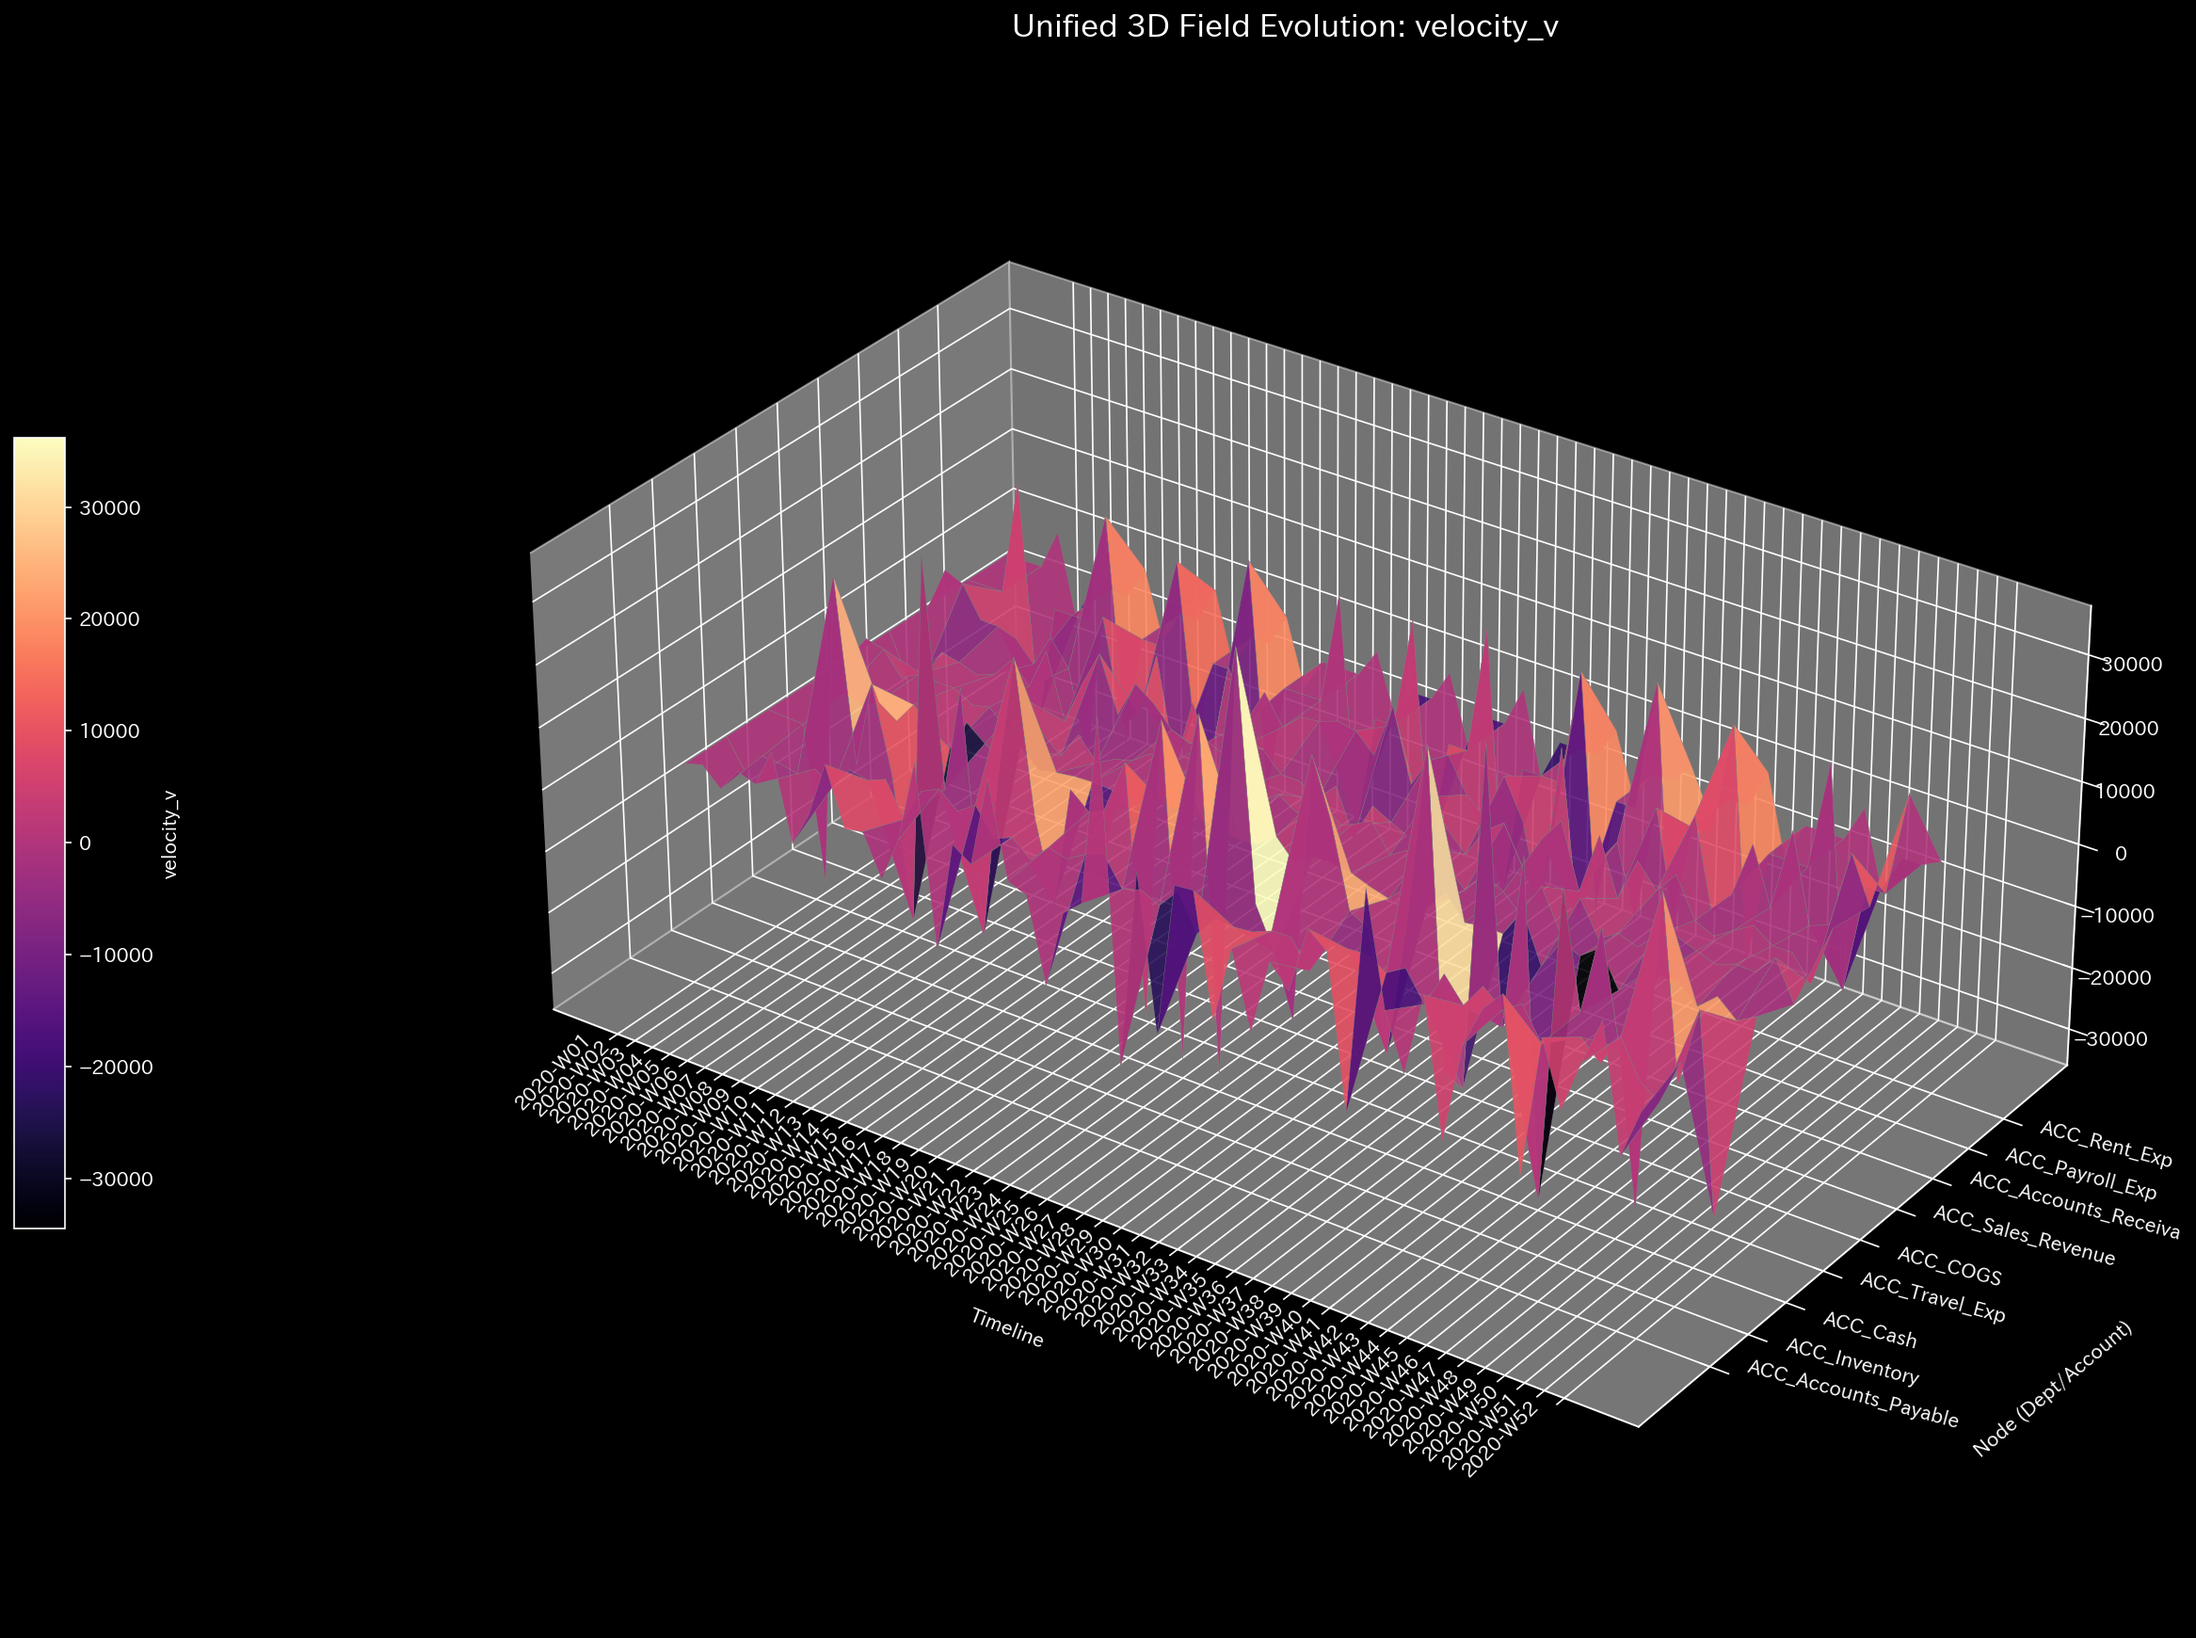
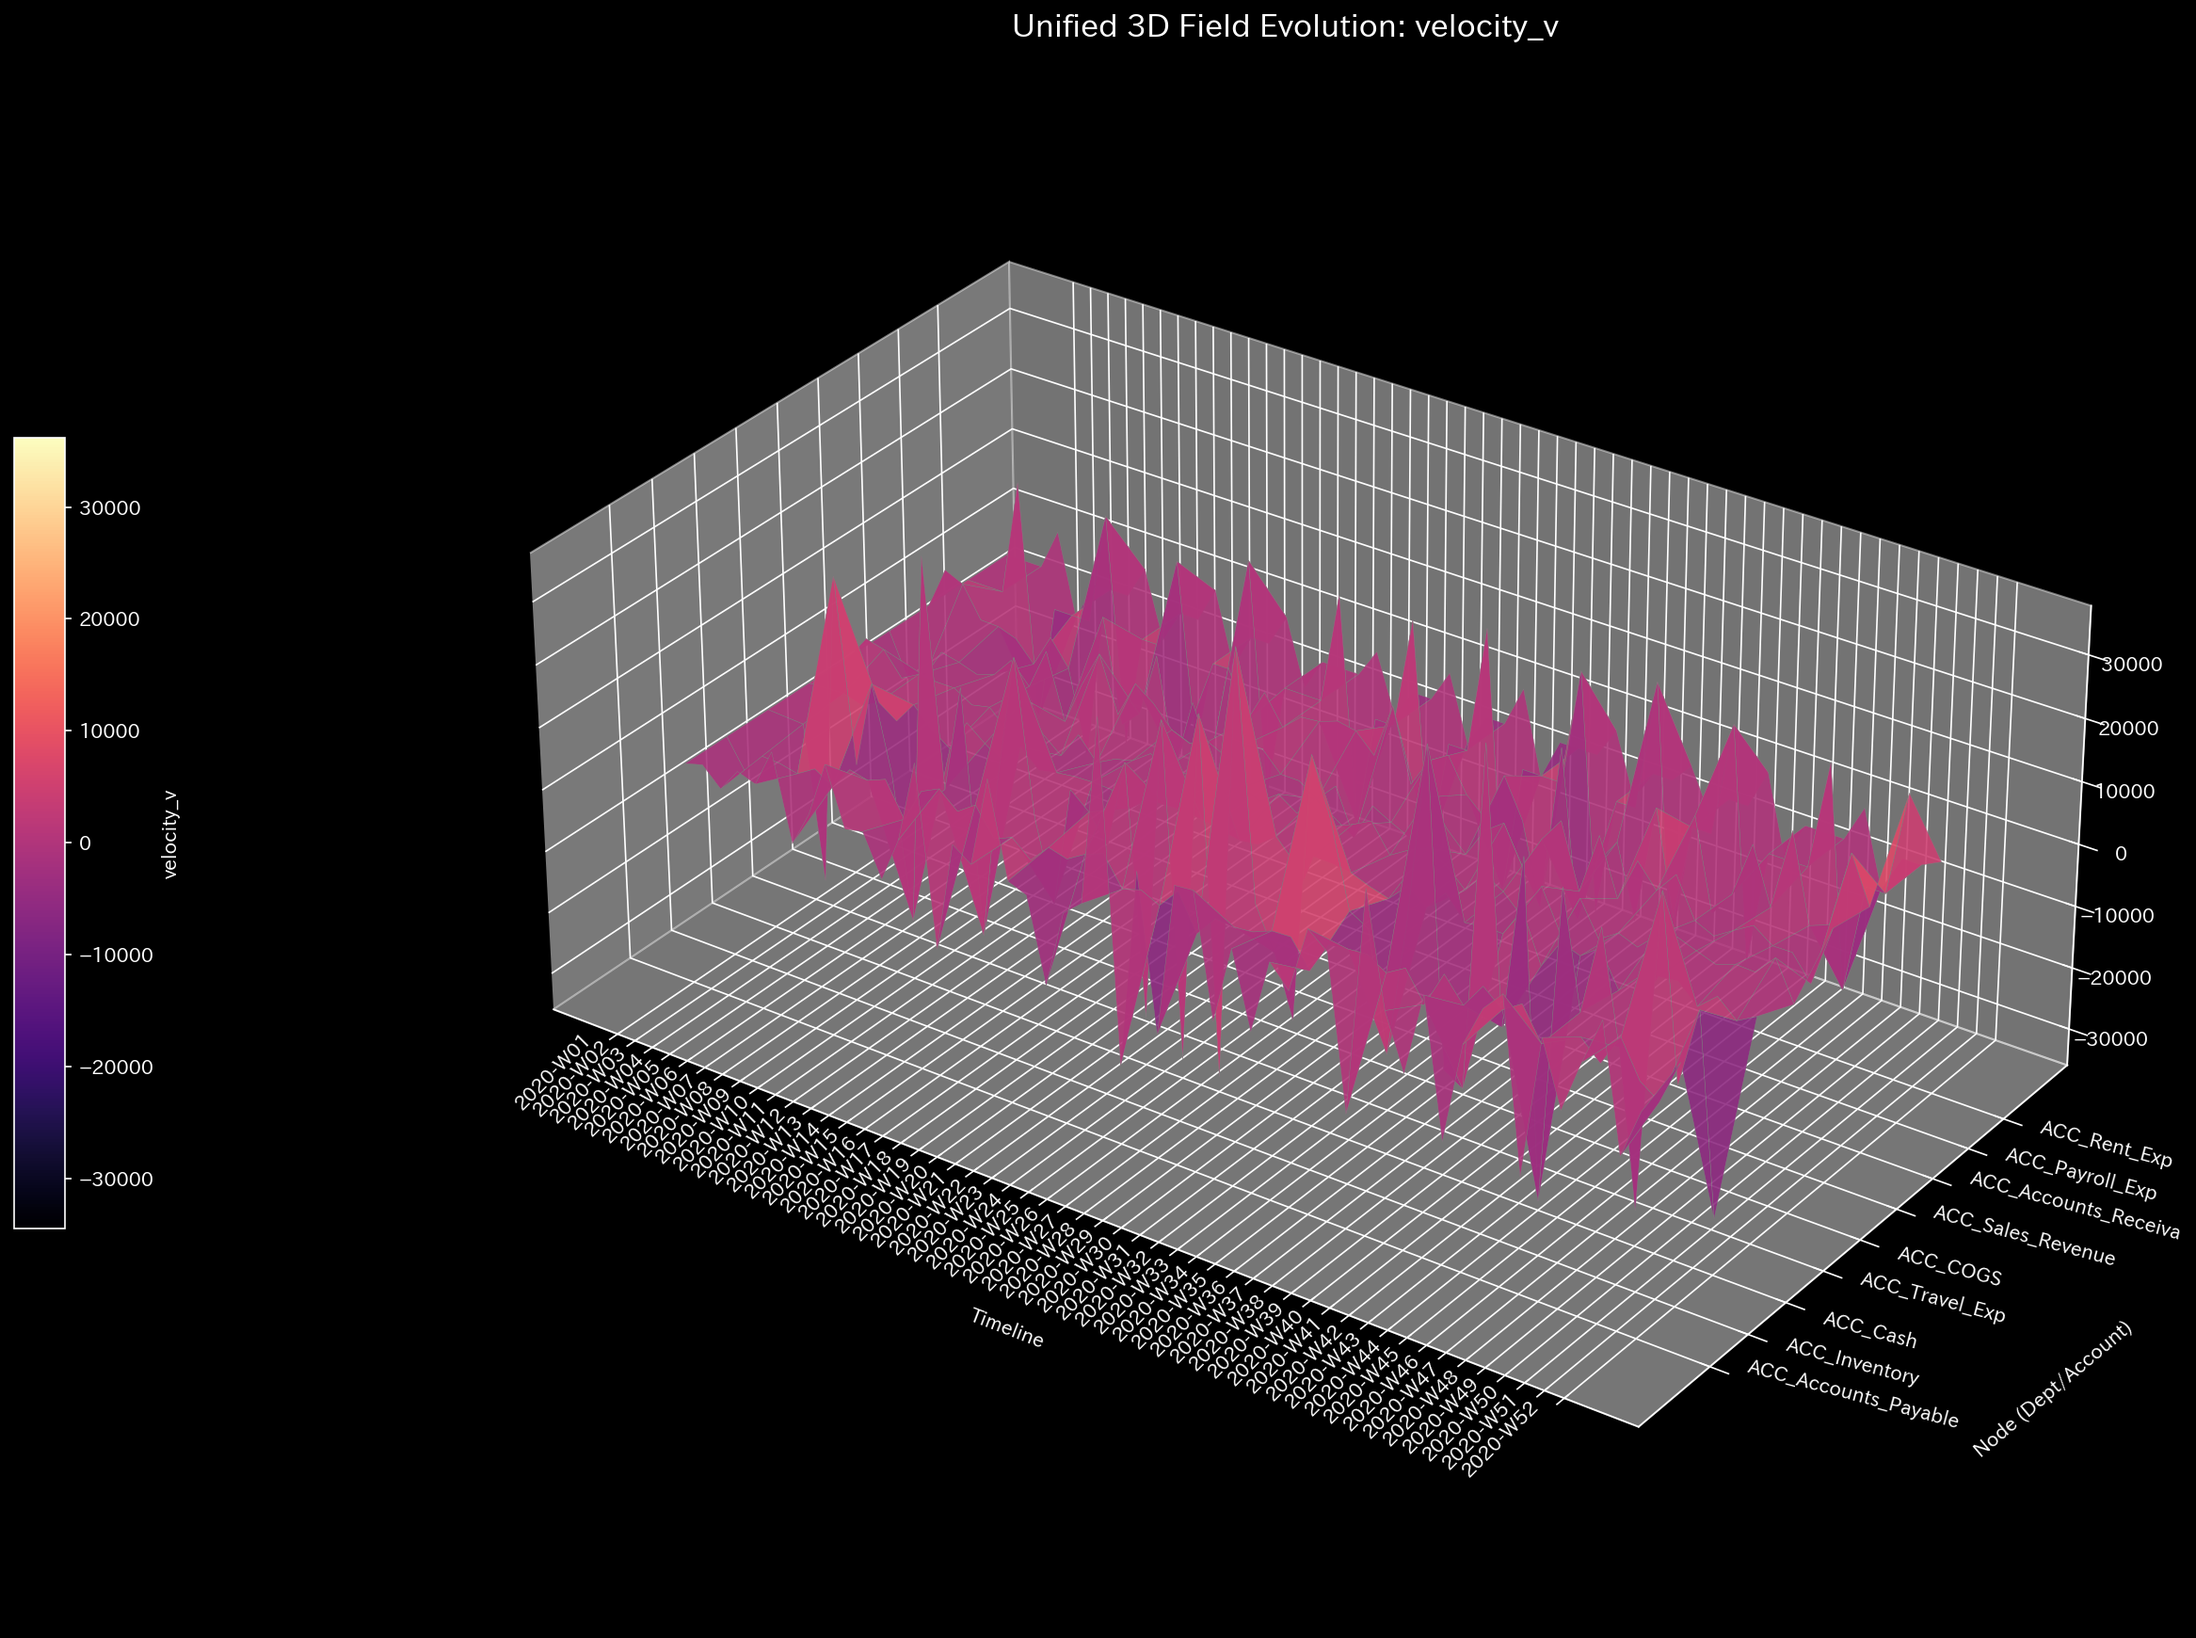
Update Documents with latest configuration.

diff --git a/src/visualizations/_09_0_visualize_3D_surface_master.py b/src/visualizations/_09_0_visualize_3D_surface_master.py
@@ -80,12 +80,16 @@ def main():
     T_mesh, N_mesh = np.meshgrid(np.arange(max_t), np.arange(max_n))
     norm = plt.Normalize(c_matrix.min(), c_matrix.max())
     
+    # Use smooth colormap interpolation across vertices instead of flat face colors
     surf = ax.plot_surface(
         T_mesh, N_mesh, z_matrix, 
-        facecolors=cmap(norm(c_matrix)),
-        shade=False, antialiased=True, alpha=0.9,
+        cmap=cmap, norm=norm,
+        shade=True, antialiased=True, alpha=0.9,
         linewidth=0.2, edgecolor=grid_col
     )
+    
+    # Adjust viewing angle for better visibility of peaks
+    ax.view_init(elev=35, azim=-55)
 
     z_axis_label = args.z_label if args.z_label else args.target_col
     c_axis_label = args.c_label if args.c_label else color_target

diff --git a/src/visualizations/_000_1_7_visualize_inertia_viscosity.py b/src/visualizations/_000_1_7_visualize_inertia_viscosity.py
@@ -47,7 +47,7 @@ def main():
     if df.empty: sys.exit(0)
 
     # Take the time average
-    df_mean = df.groupby('node_idx').mean().reset_index()
+    df_mean = df.groupby('node_idx').mean(numeric_only=True).reset_index()
 
     # Convert viscosity (C) to logarithmic scale
     df_mean['log_C'] = np.log10(np.where(df_mean['viscosity_C'] <= 0, 1e-6, df_mean['viscosity_C']))

diff --git a/src/visualizations/_001_2_1_visualize_local_thermo_scatter.py b/src/visualizations/_001_2_1_visualize_local_thermo_scatter.py
@@ -46,7 +46,7 @@ def main():
         
     if df.empty: sys.exit(0)
 
-    df_mean = df.groupby('node_idx').mean().reset_index()
+    df_mean = df.groupby('node_idx').mean(numeric_only=True).reset_index()
     N = int(df_mean['node_idx'].max()) + 1
     idx_to_label = load_node_labels(args.node_map, N)
 

diff --git a/src/visualizations/_002_1_2_visualize_info_stress_scatter.py b/src/visualizations/_002_1_2_visualize_info_stress_scatter.py
@@ -45,7 +45,7 @@ def main():
         
     if df.empty: sys.exit(0)
 
-    df_mean = df.groupby('node_idx').mean().reset_index()
+    df_mean = df.groupby('node_idx').mean(numeric_only=True).reset_index()
     N = int(df_mean['node_idx'].max()) + 1
     idx_to_label = load_node_labels(args.node_map, N)
 

diff --git a/docs/ja/samples/Sample_0_Healthy/README.md b/docs/ja/samples/Sample_0_Healthy/README.md
@@ -32,10 +32,9 @@
 1. **異常の発生地点の特定 (セマンティック・ハイドレーション):**
    TLUの出力データ（`output_data/result.002_2_2_filter_micro_forensics.analysis.csv`）には、自動的にセマンティック・ハイドレーション（ドメインラベルの付与）が施されています。
    この生データを確認するだけで、この特異点が **2020年第4週（2020-W04）** の **現金勘定（ACC_Cash）** で発生した異常であることが一目で特定できます。
-2. **視覚的トラップの解明（なぜ他のセルも同じ強さの黄色に見えるのか？）:**
-   グラフを視認すると、`2020-W04` だけでなくその前週の `2020-W03` においても、`ACC_Accounts_Payable` や `ACC_Travel_Exp` などのセルが「同じ強さの黄色」で発光しているように見えます。
-   これは、ヒートマップの描画エンジン（Seaborn）が、外れ値に引きずられてグラフ全体が暗くなるのを防ぐため、**「ロバスト・スケーリング（98パーセンタイルでの色の上限カット）」**を行っているためです。
-   実際のデータでは、第3週の各ノードの Z-Score は `4.0` 〜 `4.8` 程度ですが、第4週の現金（ACC_Cash）の Z-Score は **`121.13`** と桁違いの特異点です。しかし、色の表現上限（vmax）が `3.53` 付近でキャップされているため、人間の目には Z=4.8 も Z=121.13 も「同じ限界突破の黄色」として描画されています。分析時は必ずしも「見た目の色の強さ」だけでなく、背後の数値を追う必要があります。
+2. **3D Surface による特異点の絶対的視認性:**
+   かつての平面ヒートマップでは、色の表現上限に達すると Z=4.8 も Z=121.13 も「同じ強さの黄色」として塗り潰されてしまうという視覚的限界（認知負荷）がありました。しかし現在の **3D Surface（Gouraudシェーディング）** アーキテクチャでは、色の強さに加えて「物理的な高さ（Z軸）」によって異常の深刻度が立体的に描画されます。
+   実際のデータでは、第3週の各ノードの Z-Score も `4.0` 〜 `4.8` 程度あり、平面では黄色く発光してしまいます。しかし3D空間においては、第4週の現金（ACC_Cash）の Z-Score である **`121.13`** が、他の小さな隆起を完全に圧倒する「超巨大な摩天楼」として突出しているのが一目で視認できます。これにより、監査担当者は視覚的トラップに騙されることなく、単一の真の特異点を直感的かつ絶対的に特定できます。
 3. **元のダミー・データ（ジャーナル）の検証:**
    `Dummy_Journal_Stream.csv` の該当期間を検証すると、稼働第1週〜第3週までの現金の流出（Credit）は毎週わずか $1,000〜$1,600 程度で推移していました。
    しかし、**2020-W04（1月25日）** に事態は急変します。この日、オペレーション部門・営業部門・管理部門の「給与支払い」と「オフィス家賃」の仕訳（`Payroll_Ops`, `Payroll_Sales`, `Payroll_Admin`, `Monthly_Rent`）が同時に記帳され、一気に **$26,757** もの現金が流出しました。

diff --git a/docs/ja/samples/Sample_2_Embezzlement_Leak/README.md b/docs/ja/samples/Sample_2_Embezzlement_Leak/README.md
@@ -47,7 +47,7 @@
     ![Sample 2 Micro Z-Score 3D Surface](../../../../samples/Sample_2_Embezzlement_Leak/readme_plots/002_2_2_2__micro_Z_Score_3d_surface.png)
     * **💡 可視化グラフの読解の仕方（Visual Cues）:** 
       * **🟢 正常系（Sample 0）では:** 背景は暗い紫色（Dark Purple）に保たれ、第4週の現金ノードにのみ「初期稼働ショック（給与支払い）」を示す黄色（Yellow）のスポットが1つだけ存在します。
-      * **🔴 本サンプルの異常:** 『viridis』ヒートマップ上で、正常系の「初期稼働ショック」とは全く別のノード（勘定科目）に、明るい黄色（Yellow）の強烈な異常発光が存在します。これが、横領された資金が投棄されている正確な口座（アカウント）を物理的に特定しています。
+      * **🔴 本サンプルの異常:** 3D Surface 上で、正常系の「初期稼働ショック」とは全く別のノード（勘定科目）に、明るい黄色（Yellow）の強烈な異常発光が存在します。これが、横領された資金が投棄されている正確な口座（アカウント）を物理的に特定しています。
 
 * **財務的証拠:** 
   貸借対照表（B/S）は均衡しており（`is_balanced: true`）、会社は $58,488 の純利益を計上しています。しかし、物理指標は、合法的な資産が「合法的な経費」（例：架空のベンダーへの支払いや水増しされた出張費）を装ってネットワーク外へ流出し、窃盗が通常のビジネス活動の背後に隠蔽されていることを証明しています。
@@ -56,4 +56,4 @@
 犯人は会計知識を持ち合わせており、資金を引き出すたびに架空の経費を計上することで、従来の差異監査を巧みに回避しました。しかし、TLUの熱力学エンジンは、資金使途の「エントロピー（カオス/有用性）」を測定するため、この不自然な資金の散逸を容易に検出しました。
 
 **【アクション・プラン】**
-マクロレベルの残高チェックはここでは無意味です。直ちにミクロ・フォレンジック・ヒートマップ（`002_2_2__micro_Z_Score_heatmap.png`）を参照し、89.12のZ-Scoreを発生させている正確な経費ノードを特定してください。特定後、その口座からのすべての外部向けキャッシュフローに対する領収書レベルのフォレンジック監査を開始し、ペーパーカンパニーや承認されていない個人的な経費精算を暴き出してください。
+マクロレベルの残高チェックはここでは無意味です。直ちにミクロ Z-Score 3D Surface（`002_2_2_2__micro_Z_Score_3d_surface.png`）を参照し、89.12のZ-Scoreを発生させている正確な経費ノードを特定してください。特定後、その口座からのすべての外部向けキャッシュフローに対する領収書レベルのフォレンジック監査を開始し、ペーパーカンパニーや承認されていない個人的な経費精算を暴き出してください。

diff --git a/docs/ja/samples/Sample_8_fMRI_Stroke/README.md b/docs/ja/samples/Sample_8_fMRI_Stroke/README.md
@@ -30,7 +30,7 @@
 ![Z-Score 3D Surface](../../../../samples/Sample_8_fMRI_Stroke/plots/002_2_2_2__micro_Z_Score_3d_surface.png)
 * **💡 可視化グラフの読解の仕方（Visual Cues）:** 
   * **🟢 正常系（Sample 0）では:** 背景は暗い紫色（Dark Purple）に保たれ、第4週の現金ノードにのみ「初期稼働ショック（給与支払い）」を示す黄色（Yellow）のスポットが1つだけ存在します。
-  * **🔴 本サンプルの異常:** 『viridis』ヒートマップ上で、極端に明るい黄色（Yellow）で発光している孤立したセルを探してください。これが、数学的特異点（物理的な血栓/閉塞）の正確な空間座標をピンポイントで示しています。
+  * **🔴 本サンプルの異常:** 3D Surface 上で、極端に明るい黄色（Yellow）で発光している孤立したセルを探してください。これが、数学的特異点（物理的な血栓/閉塞）の正確な空間座標をピンポイントで示しています。
 
 ### 🔋 2. 熱力学的エネルギーの枯渇 (横領/漏洩)
 * **相対的自由エネルギー比率:** `-2.1742` (閾値: -0.1)

diff --git a/samples/Sample_6_Market_Bipartite_Weekly/output_data/_99_diagnosis_report.md b/samples/Sample_6_Market_Bipartite_Weekly/output_data/_99_diagnosis_report.md
@@ -1,7 +1,7 @@
 # TLU Meta-Diagnosis Report (Attending Physician's Summary)
 
 **Target Environment:** `samples/Sample_6_Market_Bipartite_Weekly`
-**Date Analyzed:** 2026-04-30 18:25:58
+**Date Analyzed:** 2026-04-30 20:38:47
 
 ## 1. Final Diagnosis
 
@@ -38,7 +38,7 @@ The system is suffering from multiple overlapping structural failures.
 <!--
 <LLM_DIAGNOSTIC_CONTEXT>
 {
-  "timestamp": "2026-04-30T18:25:58.264661",
+  "timestamp": "2026-04-30T20:38:47.464943",
   "environment": "samples/Sample_6_Market_Bipartite_Weekly",
   "physics_metrics": {
     "max_abs_residual": 0.0,

diff --git a/samples/Sample_3_Unbalanced_Mistake/output_data/_99_diagnosis_report.md b/samples/Sample_3_Unbalanced_Mistake/output_data/_99_diagnosis_report.md
@@ -1,7 +1,7 @@
 # TLU Meta-Diagnosis Report (Attending Physician's Summary)
 
 **Target Environment:** `samples/Sample_3_Unbalanced_Mistake`
-**Date Analyzed:** 2026-04-30 18:24:49
+**Date Analyzed:** 2026-04-30 20:37:35
 
 ## 1. Final Diagnosis
 
@@ -38,7 +38,7 @@ The system is suffering from multiple overlapping structural failures.
 <!--
 <LLM_DIAGNOSTIC_CONTEXT>
 {
-  "timestamp": "2026-04-30T18:24:49.678211",
+  "timestamp": "2026-04-30T20:37:35.527448",
   "environment": "samples/Sample_3_Unbalanced_Mistake",
   "physics_metrics": {
     "max_abs_residual": 778.56,
